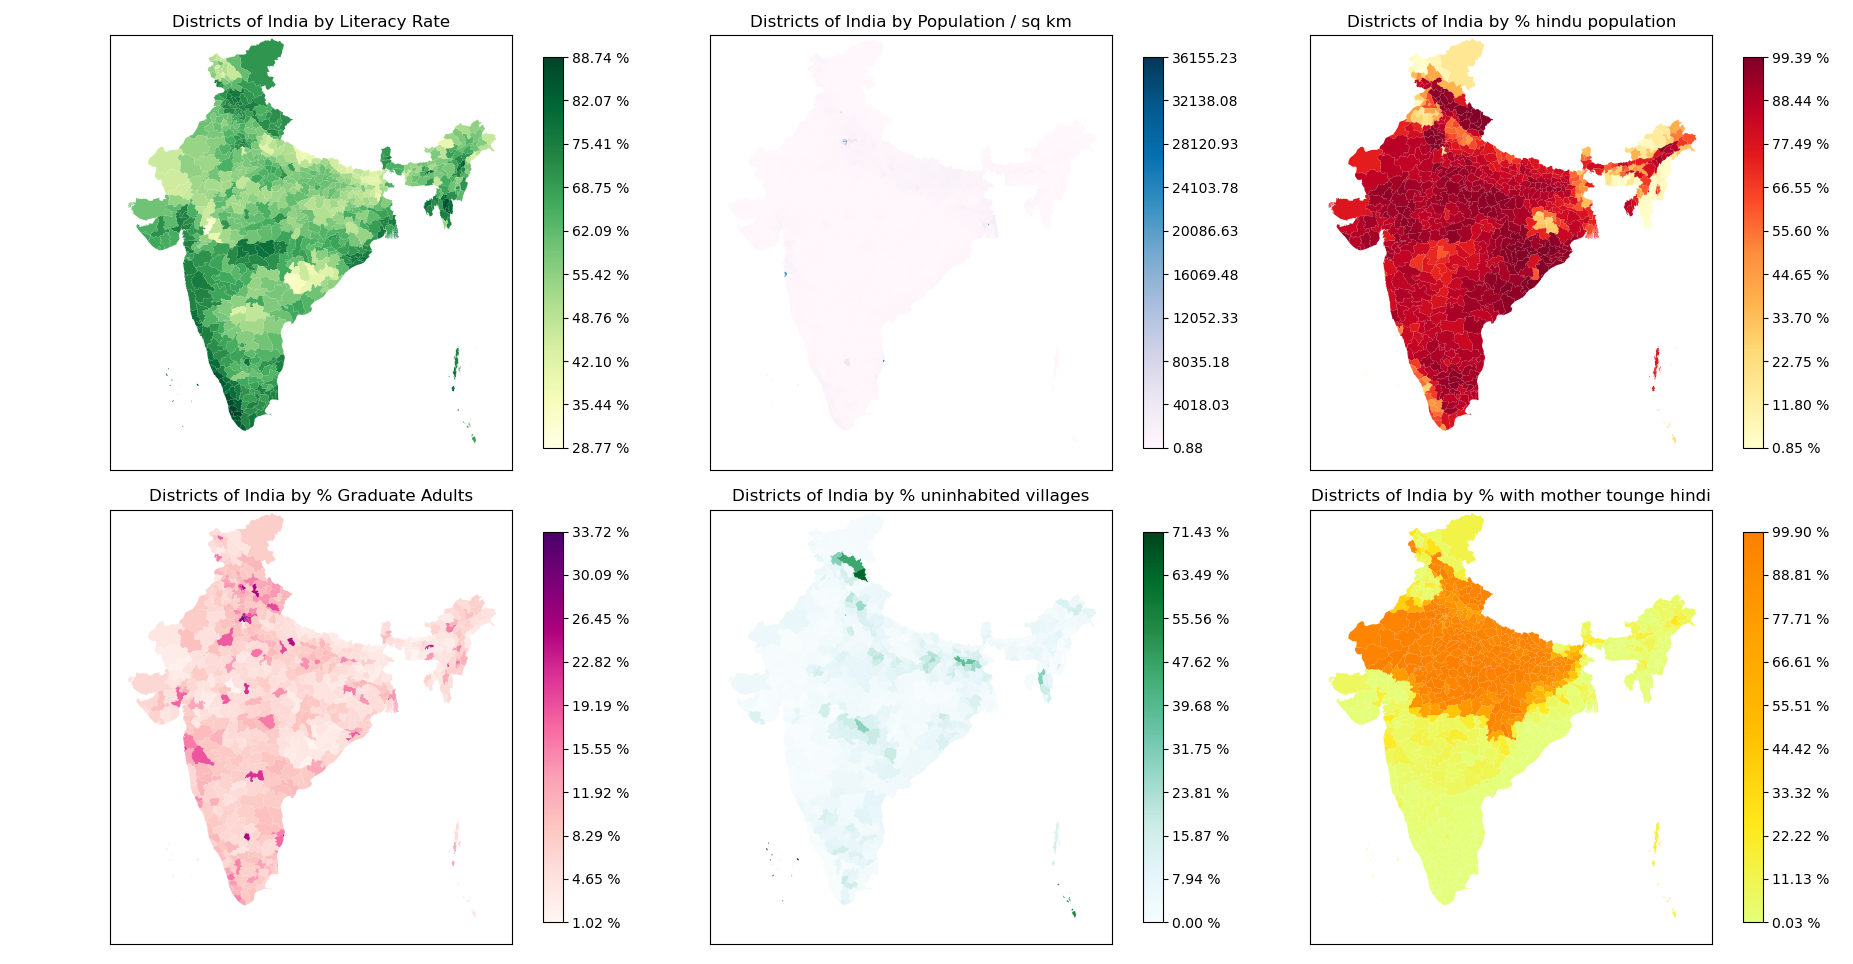
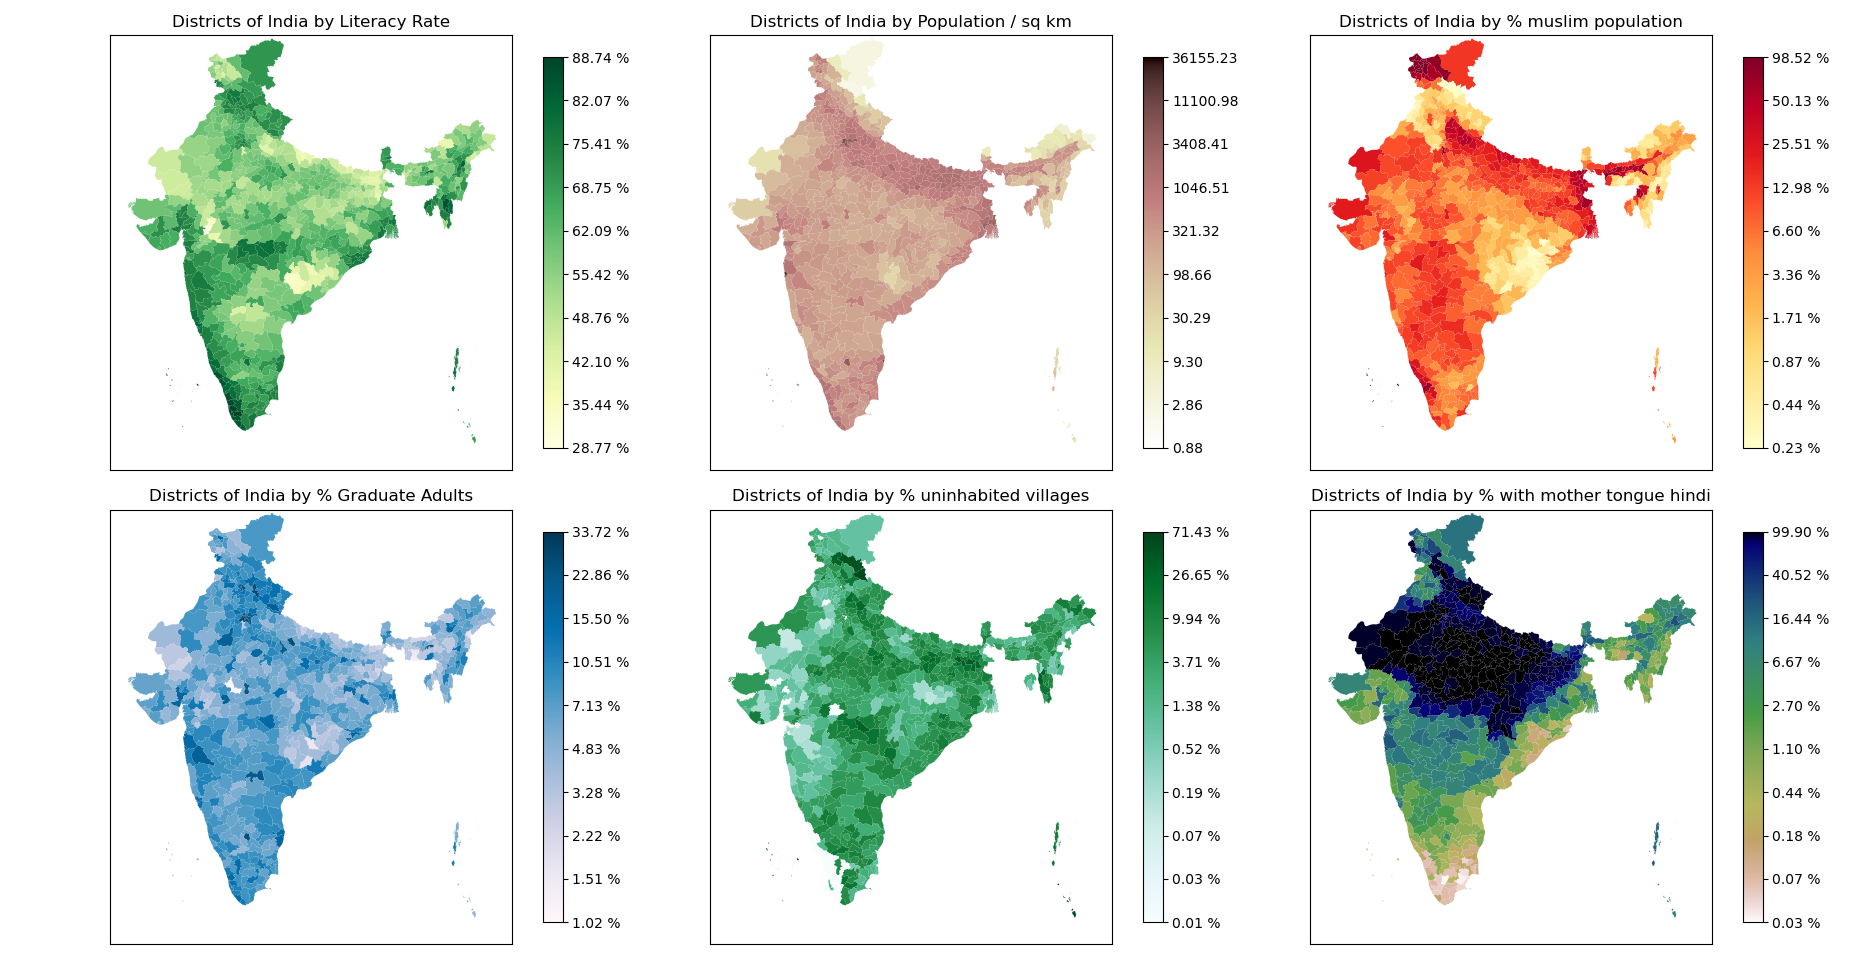
Add log scale, update test map

diff --git a/maps_test.py b/maps_test.py
@@ -28,16 +28,16 @@ show_map(map_ax, map_data, cmap, "Districts of India by Literacy Rate")
 
 # Population Density
 map_ax = fig.add_subplot(232)
-cmap = cm.get_cmap('PuBu')
+cmap = cm.get_cmap('pink').reversed()
 
 map_data = {}
 for d in populations:
   map_data[d] = populations[d]['population'] / districts[d]['area']
 
-show_map(map_ax, map_data, cmap, "Districts of India by Population / sq km", is_percent_data = False)
+show_map(map_ax, map_data, cmap, "Districts of India by Population / sq km", is_percent_data = False, log_scale = True)
 
 # {Religion} population
-religion = 'hindu'
+religion = 'muslim'
 map_ax = fig.add_subplot(233)
 cmap = cm.get_cmap('YlOrRd')
 
@@ -45,11 +45,11 @@ map_data = {}
 for d in populations:
   map_data[d] = religions[d][religion] / populations[d]['population']
 
-show_map(map_ax, map_data, cmap, "Districts of India by % " + religion + " population")
+show_map(map_ax, map_data, cmap, "Districts of India by % " + religion + " population", log_scale = True)
 
 # Graduates
 map_ax = fig.add_subplot(234)
-cmap = cm.get_cmap('RdPu')
+cmap = cm.get_cmap('PuBu')
 
 map_data = {}
 for d in populations:
@@ -60,7 +60,7 @@ for d in populations:
     twenty_plus_pop += age_groups[d][age]['total']
   map_data[d] = education[d]['graduate'] / twenty_plus_pop
 
-show_map(map_ax, map_data, cmap, "Districts of India by % Graduate Adults")
+show_map(map_ax, map_data, cmap, "Districts of India by % Graduate Adults", log_scale = True)
 
 # Uninhabited Villages
 map_ax = fig.add_subplot(235)
@@ -74,18 +74,18 @@ for d in districts:
   else:
     map_data[d] = districts[d]['villages_uninhabited'] / total_villages
 
-show_map(map_ax, map_data, cmap, "Districts of India by % uninhabited villages")
+show_map(map_ax, map_data, cmap, "Districts of India by % uninhabited villages", log_scale = True)
 
 # {Language} Speakers
 language = 'hindi'
 map_ax = fig.add_subplot(236)
-cmap = cm.get_cmap('Wistia')
+cmap = cm.get_cmap('gist_earth').reversed()
 
 map_data = {}
 for d in populations:
   map_data[d] = languages[d][language] / populations[d]['population']
 
-show_map(map_ax, map_data, cmap, "Districts of India by % with mother tounge " + language)
+show_map(map_ax, map_data, cmap, "Districts of India by % with mother tongue " + language, log_scale = True)
 
 plt.show()
 

diff --git a/draw_districts.py b/draw_districts.py
@@ -9,13 +9,32 @@ from get_basemap import get_basemap_and_district_info
 import math
 import numpy as np
 
-def show_map(map_ax, map_data, cmap, title, is_percent_data = True):
+VERY_SMALL = 0.0001
+
+def replace_zeroes(data):
+  out_data = {}
+  for d in data:
+    if data[d] > VERY_SMALL:
+      out_data[d] = data[d]
+    else:
+      out_data[d] = VERY_SMALL
+
+  return out_data
+
+def show_map(map_ax, map_data, cmap, title, is_percent_data = True, log_scale = False):
   map_ax.set_title(title)
   _, districts = get_basemap_and_district_info(show_background_map = False)
 
+  map_data = replace_zeroes(map_data)
+
   min_val = min(map_data.values())
   max_val = max(map_data.values())
-  norm = colors.Normalize(vmin = min_val, vmax = max_val)
+  if log_scale:
+    norm = colors.SymLogNorm(vmin = min_val, vmax = max_val, linthresh = VERY_SMALL, base = 10)
+    ticks = np.logspace(math.log(min_val, 10), math.log(max_val, 10), num = 10)
+  else:
+    norm = colors.Normalize(vmin = min_val, vmax = max_val)
+    ticks = np.linspace(min_val, max_val, num = 10)
 
   map_shapes = []
   map_colors = []
@@ -31,6 +50,5 @@ def show_map(map_ax, map_data, cmap, title, is_percent_data = True):
     formatter = FuncFormatter(lambda x, _ : '{val:.2f}'.format(val = x))
   else:
     formatter = FuncFormatter(lambda x, _ : '{percent:.2f} %'.format(percent = 100*x))
-  ticks = np.linspace(min_val, max_val, num = 10)
   plt.colorbar(cm.ScalarMappable(cmap=cmap, norm = norm), ticks = ticks, format = formatter, shrink = 0.9)
 
